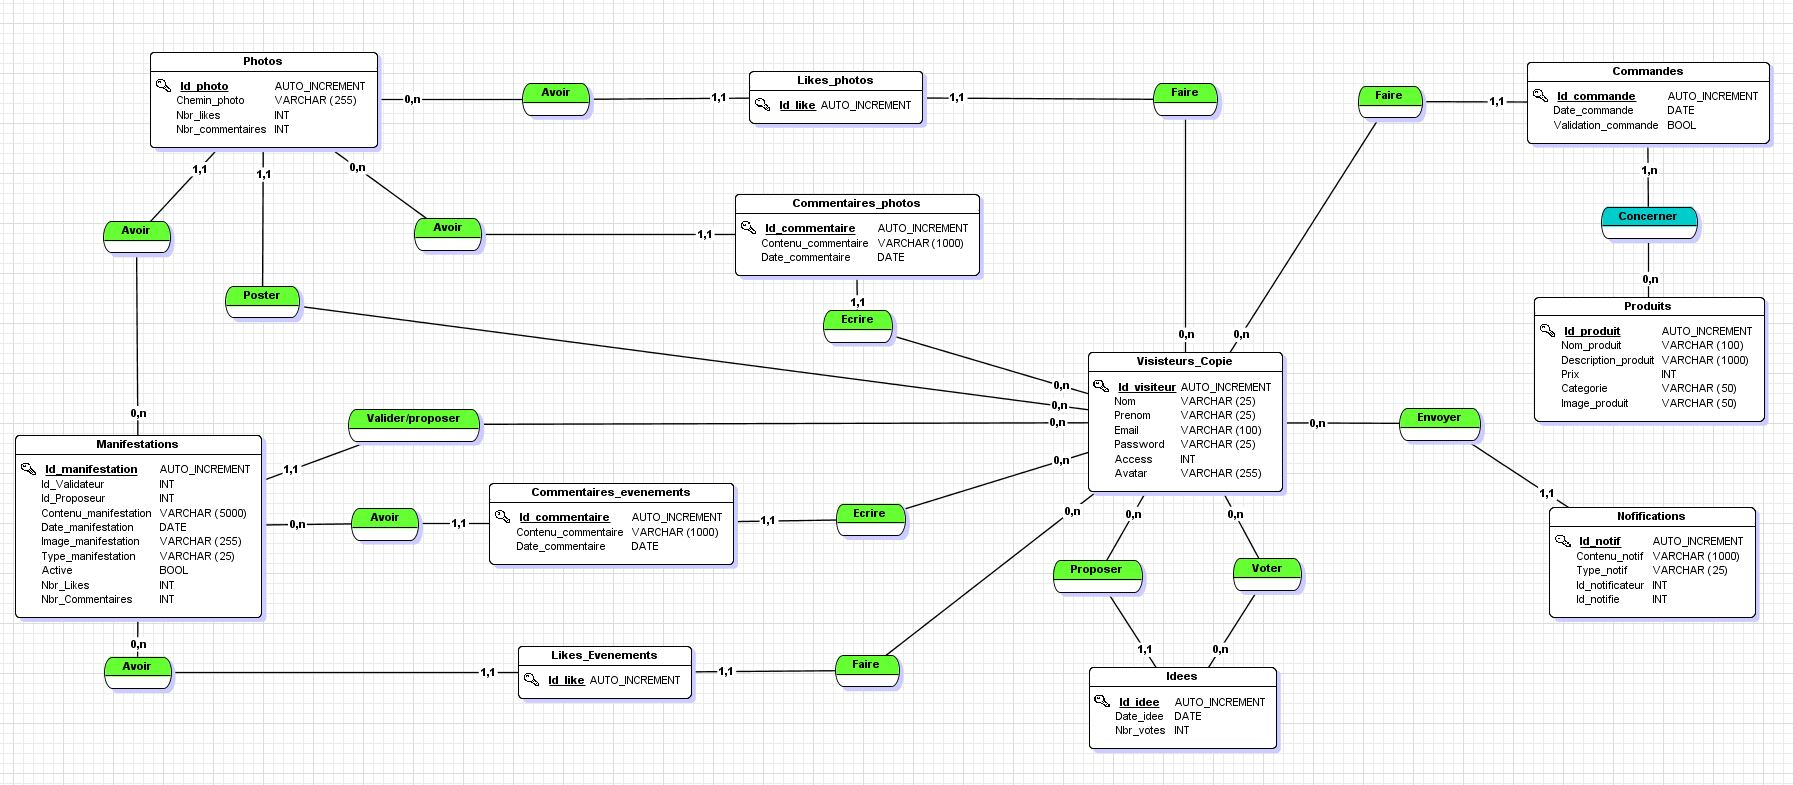
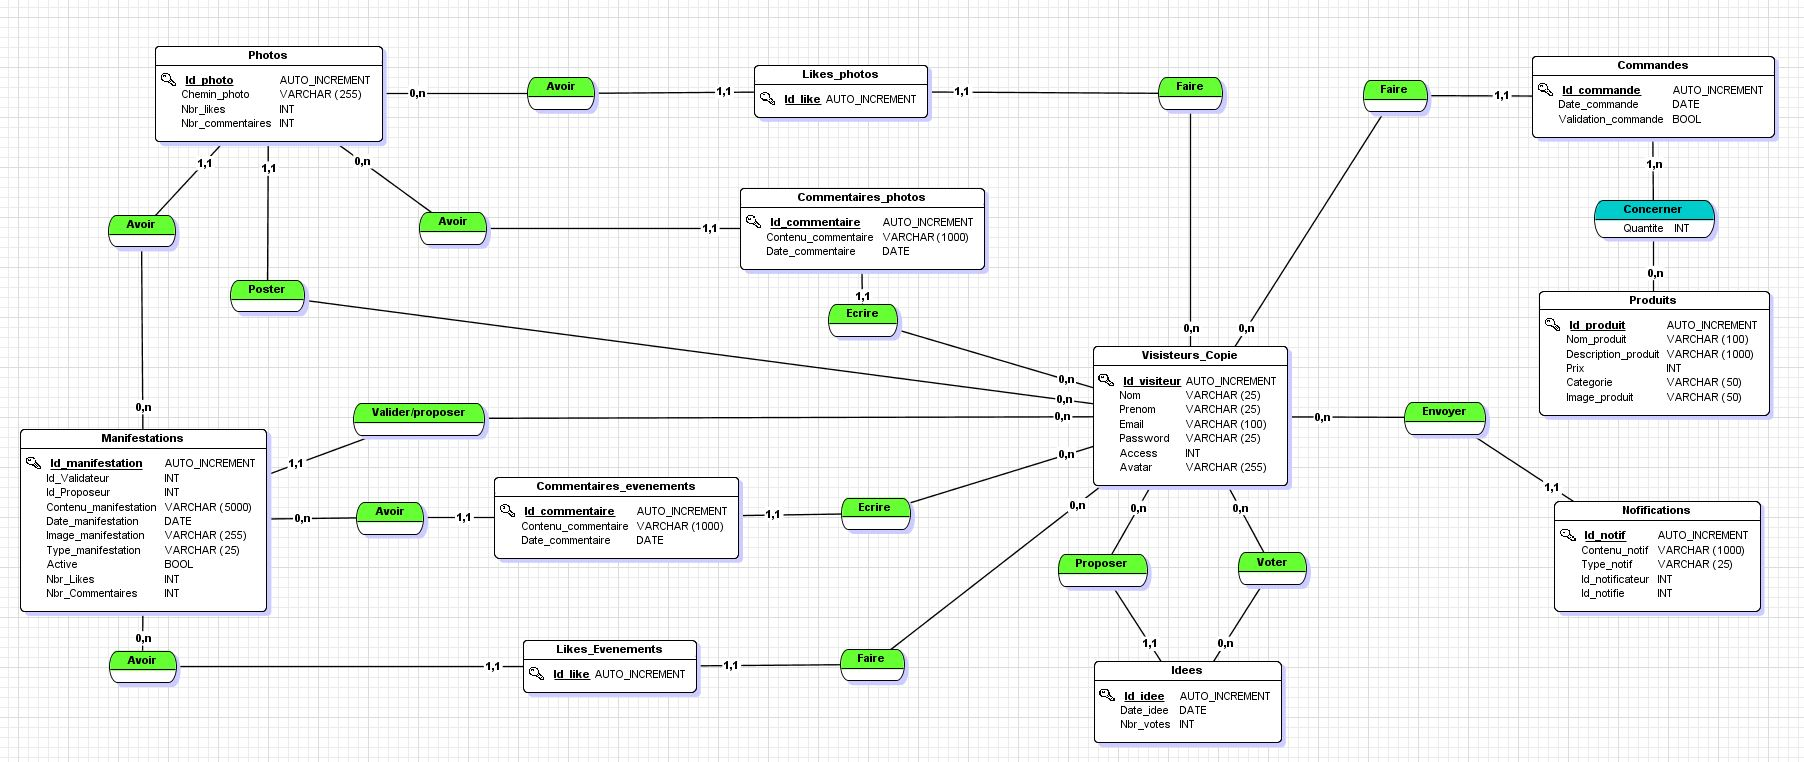
MCD ajouté "quantité" à la table concerner...

diff --git a/API Node js/API.js b/API Node js/API.js
@@ -51,7 +51,7 @@ con.connect(function(err) {
 // On specifie quelle URI va enclencher l'API pour les requêtes PUT ET POST
  myRouter.route('/visiteurs')
  .post(function(req,res){
- 	con.query("INSERT INTO visiteurs (Nom, prenom, email, password, id_centre, access) VALUES (?,?,?,?,?,?)", 
+ 	con.query("INSERT INTO visiteurs (Nom, prenom, email, password, id_centre, access, Avatar) VALUES (?,?,?,?,?,?,null)", 
  		[req.body.Nom, req.body.Prenom, req.body.Email, req.body.Password, req.body.Id_centre, req.body.Access],
  		
  		function (err, result, fields) {
@@ -60,13 +60,12 @@ con.connect(function(err) {
  			});
  		})	
  .put(function(req,res){
- 	con.query("UPDATE visiteurs SET  WHERE id_visiteur = ?", 
+ 	con.query("UPDATE visiteurs SET WHERE id_visiteur = ?", 
  		[req.body.Password, req.body.id_visiteur], function (err, result, fields) {
  		if (err) throw err;
  		res.send(result);
  		});
-
- });
+});
 
 // On spécifie à l'application d'utiliser le routeur qu'on vient de créer 
 app.use(myRouter);  
